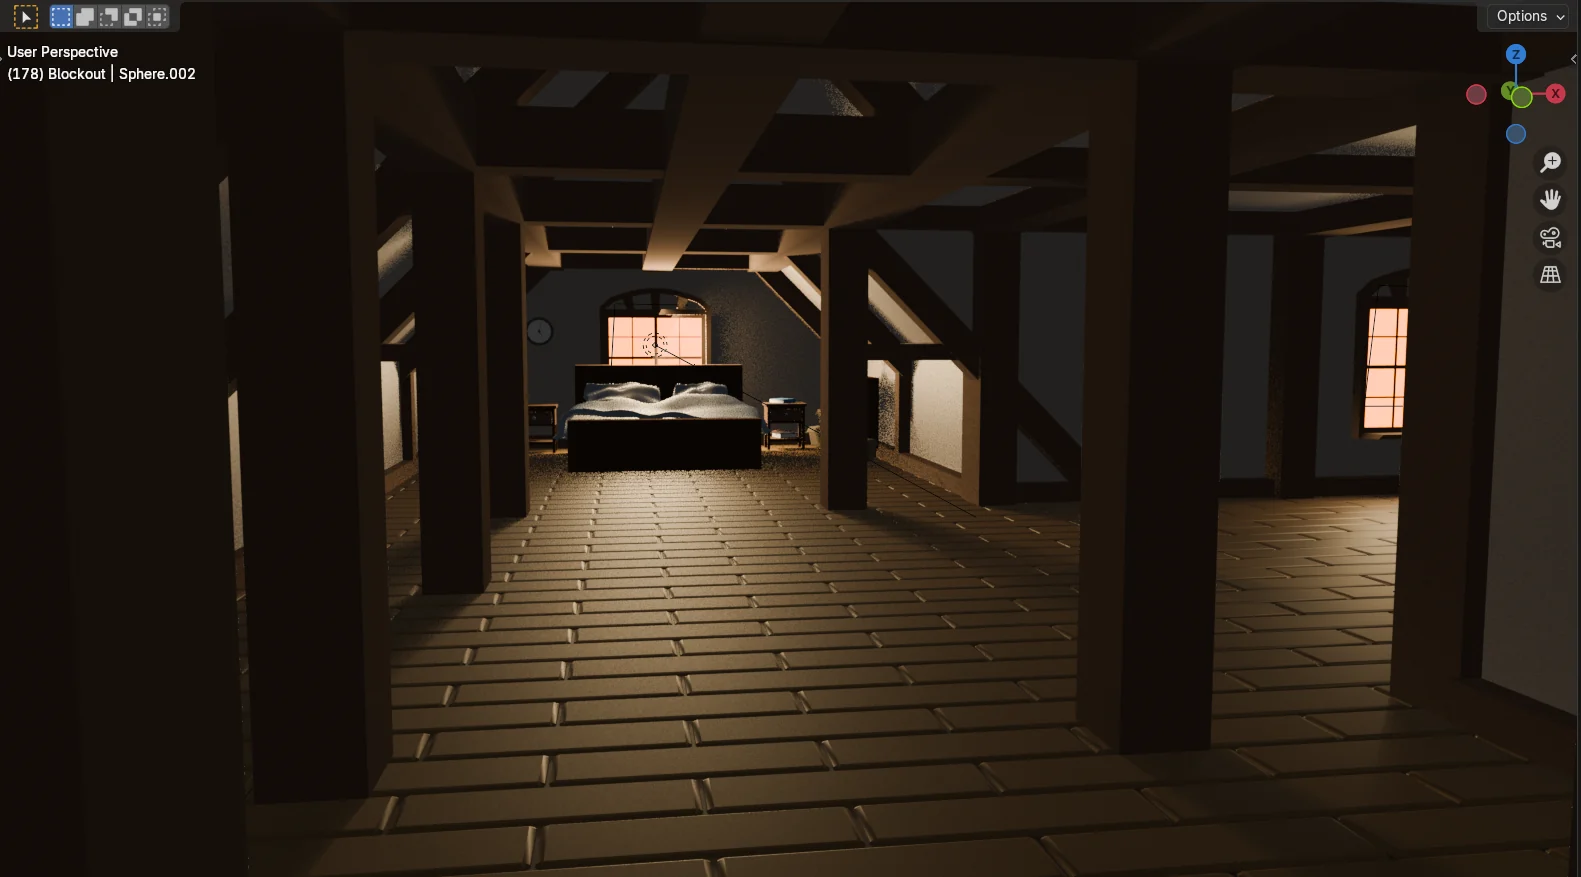
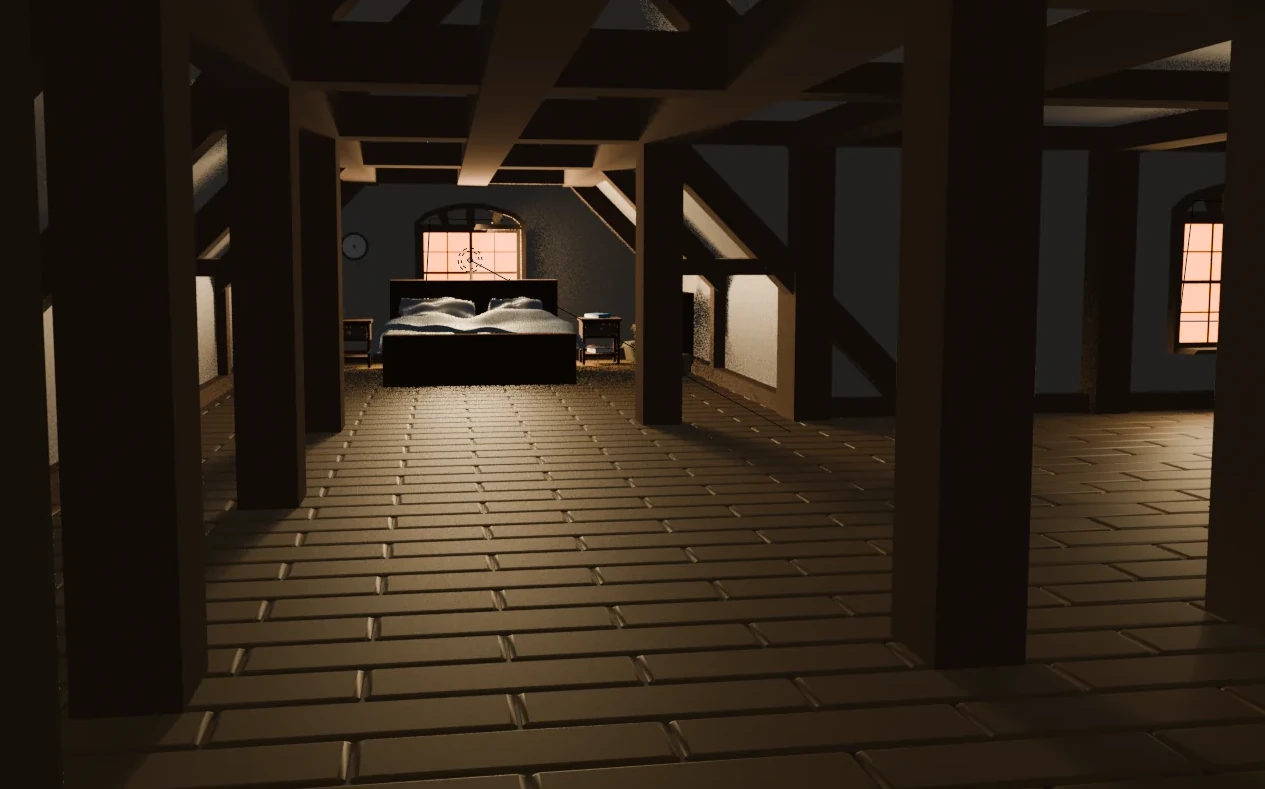
Little Changes BG and Hero

diff --git a/dungeon-diver.html b/dungeon-diver.html
@@ -1,6 +1,11 @@
-<!doctype html><html lang="en"><head><meta charset="utf-8"><meta name="viewport" content="width=device-width,initial-scale=1"><meta name="description" content="Dungeon Diver portfolio case study by Tobias Netzeband."><title>Dungeon Diver | The Boy Bias</title><link rel="stylesheet" href="styles.css"></head><body class="case-study"><header><a class="brand" href="index.html#top"><span class="tbb-mark" aria-hidden="true"><span>T</span><span>B</span><span>B</span></span><span class="tbb-wordmark"><strong>THE BOY BIAS</strong></span></a><span class="brand-status"><i></i>AVAILABLE FOR OPPORTUNITIES</span><nav aria-label="Primary navigation"><a href="index.html#work">Work</a><a href="games.html">Games</a><a href="index.html#disciplines">Disciplines</a><a href="index.html#about">About</a><a href="assets/docs/CV_Tobias_Netzeband.pdf">Resume</a></nav><div class="header-actions"><a class="header-contact" href="#contact">Contact ↗</a></div></header><main><section class="games-hero"><img src="assets/games/dungeon-1.webp" alt="Dungeon Diver living underwater hub"><div class="games-hero-copy"><p class="kicker">5TH SEMESTER PROJECT</p><h1>DUNGEON<br><span>DIVER.</span></h1><p>An underwater digging game where the interface is part of the world and every discovery makes the central hub feel more alive.</p><div class="game-facts"><i>SOLO PROJECT</i><i>6 MONTHS</i><i>UNREAL ENGINE</i><i>UI ONLY GAME</i></div><div class="case-meta-unified"><div><small>ROLE</small><b>Solo Developer / UI Artist</b></div><div><small>CONTRIBUTION</small><b>Concept · UI/UX · 2D · Blueprints</b></div><div><small>ENGINE</small><b>Unreal Engine</b></div><div><small>DURATION</small><b>6 Months</b></div><div><small>PROJECT</small><b>5th Semester</b></div></div></div></section>
+<!doctype html><html lang="en"><head><meta charset="utf-8"><meta name="viewport" content="width=device-width,initial-scale=1"><meta name="description" content="Dungeon Diver portfolio case study by Tobias Netzeband."><title>Dungeon Diver | The Boy Bias</title><link rel="stylesheet" href="styles.css"></head><body class="case-study"><header><a class="brand" href="index.html#top"><span class="tbb-mark" aria-hidden="true"><span>T</span><span>B</span><span>B</span></span><span class="tbb-wordmark"><strong>THE BOY BIAS</strong></span></a><span class="brand-status"><i></i>AVAILABLE FOR OPPORTUNITIES</span><nav aria-label="Primary navigation"><a href="index.html#work">Work</a><a href="games.html">Games</a><a href="index.html#disciplines">Disciplines</a><a href="index.html#about">About</a><a href="assets/docs/CV_Tobias_Netzeband.pdf">Resume</a></nav><div class="header-actions"><a class="header-contact" href="#contact">Contact ↗</a></div></header><main><section class="games-hero dungeon-hero"><img src="assets/games/dungeon-2.webp" alt="Dungeon Diver digging gameplay"><div class="games-hero-copy"><p class="kicker">5TH SEMESTER PROJECT</p><h1>DUNGEON<br><span>DIVER.</span></h1><p>An underwater digging game where the interface is part of the world and every discovery makes the central hub feel more alive.</p><div class="game-facts"><i>SOLO PROJECT</i><i>6 MONTHS</i><i>UNREAL ENGINE</i><i>UI ONLY GAME</i></div><div class="case-meta-unified"><div><small>ROLE</small><b>Solo Developer / UI Artist</b></div><div><small>CONTRIBUTION</small><b>Concept · UI/UX · 2D · Blueprints</b></div><div><small>ENGINE</small><b>Unreal Engine</b></div><div><small>DURATION</small><b>6 Months</b></div><div><small>PROJECT</small><b>5th Semester</b></div></div></div></section>
 <section class="section"><div class="game-copy"><div><p class="kicker">A LIVING INTERFACE</p><h2>The menu is <span>the world.</span></h2></div><div class="prose"><p>Dungeon Diver was developed as my fifth semester project. I wanted to build a UI only game without making the experience feel like a collection of conventional menus.</p><p>The central underwater hub acts as the main interface. Navigation is embedded directly into the environment, and discoveries made while digging return to the hub as fish, plants and other life.</p></div></div></section>
-<section id="ui" class="section dark"><div class="game-feature"><img class="zoomable" src="assets/games/dungeon-1.webp" alt="Dungeon Diver hub"><div><p class="kicker">WORLD AS NAVIGATION</p><h3>Buttons that belong to the environment.</h3><p>Instead of placing a standard navigation bar over the scene, each action is represented by an object inside the hub.</p><div class="hub-map"><div><b>Cave</b><span>Dungeon</span></div><div><b>Chest</b><span>Shop</span></div><div><b>Musical Shell</b><span>Settings</span></div><div><b>Fishing Hook</b><span>Quit</span></div></div></div></div></section>
+<section id="ui" class="section dark"><div class="game-feature"><img class="zoomable" src="assets/games/dungeon-1.webp" alt="Dungeon Diver hub"><div><p class="kicker">WORLD AS NAVIGATION</p><h3>Buttons that belong to the environment.</h3><p>Instead of placing a standard navigation bar over the scene, each action is represented by an object inside the hub.</p><div class="hub-map">
+<div><small>01</small><b>Cave</b><span>Dungeon</span></div>
+<div><small>02</small><b>Chest</b><span>Shop</span></div>
+<div><small>03</small><b>Musical Shell</b><span>Settings</span></div>
+<div><small>04</small><b>Fishing Hook</b><span>Quit</span></div>
+</div></div></div></section>
 <section class="section"><div class="game-copy"><div><p class="kicker">DIG. DISCOVER. UPGRADE.</p><h2>A simple loop with <span>visible progress.</span></h2></div><p class="prose">The shovel itself becomes the mouse cursor. Players dig through dungeon grids, earn currency, discover fish and plants, and improve the shovel in the shop to progress through new levels.</p></div><div class="game-gallery" style="margin-top:50px"><img class="zoomable" src="assets/games/dungeon-2.webp" alt="Dungeon digging gameplay"><img class="zoomable" src="assets/games/dungeon-3.webp" alt="Dungeon Diver shop"><img class="zoomable" src="assets/games/dungeon-4.webp" alt="Collection interface"><img class="zoomable" src="assets/games/dungeon-5.webp" alt="Level interface"></div></section>
 <section id="2d" class="section dark"><div class="game-copy"><div><p class="kicker">INTERACTION STATES</p><h2>Feedback at the <span>cursor.</span></h2></div><p class="prose">Because the shovel is both tool and cursor, its visual states help communicate interaction directly where the player is already looking.</p></div><div class="ui-state-row" style="margin-top:50px"><figure><img src="assets/games/dungeon-shovel.webp" alt="Shovel normal state"><figcaption>NORMAL</figcaption></figure><figure><img src="assets/games/dungeon-shovel-hover.webp" alt="Shovel hover state"><figcaption>HOVER</figcaption></figure><figure><img src="assets/games/dungeon-shovel-dark.webp" alt="Shovel unavailable state"><figcaption>INACTIVE</figcaption></figure></div></section>
 <section class="section"><div class="game-cta"><div><p class="kicker">PLAY THE GAME</p><h3>Dive in and build the reef.</h3></div><a class="btn light" href="https://theboybias.itch.io/dungeondiver">Play on itch.io ↗</a></div></section><nav class="project-nav"><a href="strange-day.html"><small>← PREVIOUS PROJECT</small><b>Strange Day</b></a><a href="lost-little-boy.html"><small>NEXT PROJECT →</small><b>Lost Little Boy</b></a></nav><section id="contact" class="contact section">

diff --git a/2d-work.html b/2d-work.html
@@ -1,6 +1,6 @@
 <!doctype html><html lang="en"><head><meta charset="utf-8"><meta name="viewport" content="width=device-width,initial-scale=1"><title>2D Work | The Boy Bias</title><link rel="stylesheet" href="styles.css"></head><body id="top"><header><a class="brand" href="index.html#top"><span class="tbb-mark" aria-hidden="true"><span>T</span><span>B</span><span>B</span></span><span class="tbb-wordmark"><strong>THE BOY BIAS</strong></span></a><span class="brand-status"><i></i>AVAILABLE FOR OPPORTUNITIES</span><nav aria-label="Primary navigation"><a href="index.html#work">Work</a><a href="games.html">Games</a><a href="index.html#disciplines">Disciplines</a><a href="index.html#about">About</a><a href="assets/docs/CV_Tobias_Netzeband.pdf">Resume</a></nav><div class="header-actions"><a class="header-contact" href="#contact">Contact ↗</a></div></header>
 <main>
-<section class="section two-d-hero"><p class="kicker">2D WORK · SELECTED ART</p><h1>Illustration.<br><span>Characters. Worlds.</span></h1><p class="lead">A curated selection of independent 2D work across environment illustration, character design and portrait studies.</p><div class="two-d-filters" role="group" aria-label="2D artwork filters"><button class="active" data-filter="all">ALL</button><button data-filter="environment">ENVIRONMENTS</button><button data-filter="character">CHARACTERS</button><button data-filter="portrait">PORTRAITS</button><button data-filter="illustration">ILLUSTRATION</button></div></section>
+<section class="section two-d-hero"><p class="kicker">2D WORK · SELECTED ART</p><h1>Illustration.<br><span>Characters. Worlds.</span></h1><p class="lead">A curated selection of independent 2D work across environment illustration, character design and portrait studies.</p><div class="two-d-filters" role="group" aria-label="2D artwork filters"><button class="active" data-filter="all">ALL</button><button data-filter="environment">ENVIRONMENTS</button><button data-filter="studies">STUDIES</button><button data-filter="character">CHARACTERS</button><button data-filter="portrait">PORTRAITS</button><button data-filter="illustration">ILLUSTRATION</button></div></section>
 <section class="section two-d-gallery"><div class="art-grid"><button class="art-card environment" data-cat="environment" type="button"><figure><img src="assets/2d/landscape-green.webp" alt="Landscape Study" loading="lazy"></figure><div><small>ENVIRONMENT</small><b>Landscape Study</b><span>VIEW ARTWORK ↗</span></div></button><button class="art-card illustration" data-cat="illustration" type="button"><figure><img src="assets/2d/commission-temple.webp" alt="Temple Commission" loading="lazy"></figure><div><small>ILLUSTRATION</small><b>Temple Commission</b><span>VIEW ARTWORK ↗</span></div></button><button class="art-card environment" data-cat="environment" type="button"><figure><img src="assets/2d/environment-bedroom.webp" alt="Interior Illustration" loading="lazy"></figure><div><small>ENVIRONMENT</small><b>Interior Illustration</b><span>VIEW ARTWORK ↗</span></div></button><button class="art-card environment" data-cat="environment" type="button"><figure><img src="assets/2d/environment-field.webp" alt="Field Study" loading="lazy"></figure><div><small>ENVIRONMENT</small><b>Field Study</b><span>VIEW ARTWORK ↗</span></div></button><button class="art-card environment" data-cat="environment" type="button"><figure><img src="assets/2d/environment-coast.webp" alt="Coastal Study" loading="lazy"></figure><div><small>ENVIRONMENT</small><b>Coastal Study</b><span>VIEW ARTWORK ↗</span></div></button><button class="art-card portrait" data-cat="portrait" type="button"><figure><img src="assets/2d/portrait-experimental.webp" alt="Experimental Portrait" loading="lazy"></figure><div><small>PORTRAIT</small><b>Experimental Portrait</b><span>VIEW ARTWORK ↗</span></div></button><button class="art-card character" data-cat="character" type="button"><figure><img src="assets/2d/character-creature.webp" alt="Creature Design" loading="lazy"></figure><div><small>CHARACTER</small><b>Creature Design</b><span>VIEW ARTWORK ↗</span></div></button><button class="art-card character" data-cat="character" type="button"><figure><img src="assets/2d/character-hamster.webp" alt="Creature Sketch" loading="lazy"></figure><div><small>CHARACTER</small><b>Creature Sketch</b><span>VIEW ARTWORK ↗</span></div></button><button class="art-card portrait" data-cat="portrait" type="button"><figure><img src="assets/2d/portrait-woman.webp" alt="Character Portrait" loading="lazy"></figure><div><small>PORTRAIT</small><b>Character Portrait</b><span>VIEW ARTWORK ↗</span></div></button></div></section>
 <section id="contact" class="section dark"><p class="kicker">CONTACT</p><h2>Interested in<br><span>working together?</span></h2><a class="project-action" href="mailto:netzebandtobias@googlemail.com">GET IN TOUCH ↗</a></section>
 </main>

diff --git a/styles.css b/styles.css
@@ -1479,3 +1479,28 @@ section[id]{scroll-margin-top:86px}
 .two-d-gallery{padding-top:20px!important}.art-grid{columns:3 300px;column-gap:12px}.art-card{display:inline-block;width:100%;margin:0 0 12px;border:1px solid var(--line);padding:0;background:#0b0b0a;color:inherit;text-align:left;cursor:pointer;break-inside:avoid;overflow:hidden;transition:transform .22s,border-color .22s}.art-card:hover{transform:translateY(-3px);border-color:#676760}.art-card[hidden]{display:none}.art-card figure{margin:0;background:#080808;overflow:hidden}.art-card img{width:100%;height:auto;display:block;transition:transform .4s}.art-card:hover img{transform:scale(1.015)}.art-card>div{padding:14px}.art-card small{font:700 8px monospace;color:#7f7f79;letter-spacing:.1em}.art-card b{display:block;font-size:17px;margin:5px 0 10px}.art-card span{font:700 8px monospace;color:#aaa}
 .art-lightbox{position:fixed;z-index:9999;inset:0;background:rgba(0,0,0,.94);display:none;place-items:center;padding:60px 30px}.art-lightbox.open{display:grid}.art-lightbox img{max-width:min(90vw,1500px);max-height:78vh;object-fit:contain}.art-lightbox-close{position:absolute;right:24px;top:20px;width:44px;height:44px;border:1px solid #555;background:#111;color:#fff;font-size:28px;cursor:pointer}.art-lightbox-meta{position:absolute;left:30px;bottom:22px}.art-lightbox-meta small{display:block;color:#8d8d87;font:700 8px monospace;letter-spacing:.1em}.art-lightbox-meta b{display:block;font-size:16px;margin-top:4px}
 @media(max-width:700px){.art-grid{columns:1}.two-d-hero{padding-top:120px!important}}
+
+/* V6.3 subtle surface texture + polish */
+body{position:relative}
+body:before{
+  content:"";position:fixed;z-index:-1;inset:0;pointer-events:none;
+  background:
+    radial-gradient(ellipse at 12% 12%,rgba(255,255,255,.025),transparent 36%),
+    radial-gradient(ellipse at 82% 38%,rgba(255,255,255,.018),transparent 32%),
+    radial-gradient(ellipse at 40% 88%,rgba(255,255,255,.014),transparent 35%);
+}
+.section:not(.dark){background-image:
+  linear-gradient(115deg,rgba(255,255,255,.012),transparent 32%),
+  radial-gradient(circle at 88% 18%,rgba(255,255,255,.018),transparent 24%);
+}
+.section.dark{background-image:
+  radial-gradient(ellipse at 15% 55%,rgba(255,255,255,.018),transparent 30%),
+  linear-gradient(160deg,transparent 40%,rgba(255,255,255,.01) 72%,transparent);
+}
+.hub-map{display:grid!important;grid-template-columns:repeat(2,minmax(0,1fr))!important;gap:9px!important;margin-top:26px!important}
+.hub-map>div{min-width:0!important;min-height:94px!important;padding:16px 17px!important;border:1px solid var(--line)!important;display:grid!important;grid-template-columns:auto 1fr!important;grid-template-rows:auto auto!important;column-gap:12px!important;align-content:center!important;background:rgba(255,255,255,.018)!important}
+.hub-map small{grid-row:1/3;align-self:center;font:700 8px monospace;color:#66665f}
+.hub-map b{display:block!important;font-size:14px!important;line-height:1.15!important;margin:0!important;white-space:normal!important}
+.hub-map span{display:block!important;font:700 9px monospace!important;color:#8f8f88!important;margin-top:5px!important}
+.dungeon-hero>img{object-position:center 52%!important}
+@media(max-width:560px){.hub-map{grid-template-columns:1fr!important}}

diff --git a/README.md b/README.md
@@ -1,11 +1,10 @@
-# The Boy Bias Portfolio V6.2
+# The Boy Bias Portfolio V6.3
 
-2D portfolio expansion.
-
-- Added a dedicated 2D Work page
-- Curated independent work into Environments, Characters, Portraits and Illustration
-- Added filter navigation
-- Added large artwork lightbox viewing
-- Added the three newly supplied character artworks
-- Changed the homepage 2D discipline entry to open the dedicated 2D portfolio
-- Existing game-specific 2D work remains in its respective case studies
+Focused polish update:
+- Corrected 2D taxonomy: Temple Commission is now Environment; Field and Coastal studies moved to a new Studies category
+- Cropped Strange Day early-development images to remove Blender interface clutter
+- Rebuilt Dungeon Diver environment-button cards for proper scaling, centering and responsive layout
+- Changed Dungeon Diver hero to a different existing gameplay image as an interim improvement
+- Added very subtle low-contrast background texture using lightweight CSS gradients, with no image downloads
+- Preview replacements for Hooked!!, Guardian of the Garden and Cutdown are intentionally deferred until stronger source images are selected
+- Lost Little Boy GIF hero and Torii wind-animation replacement are deferred because the exact original GIF files are not currently recoverable from the available uploads
